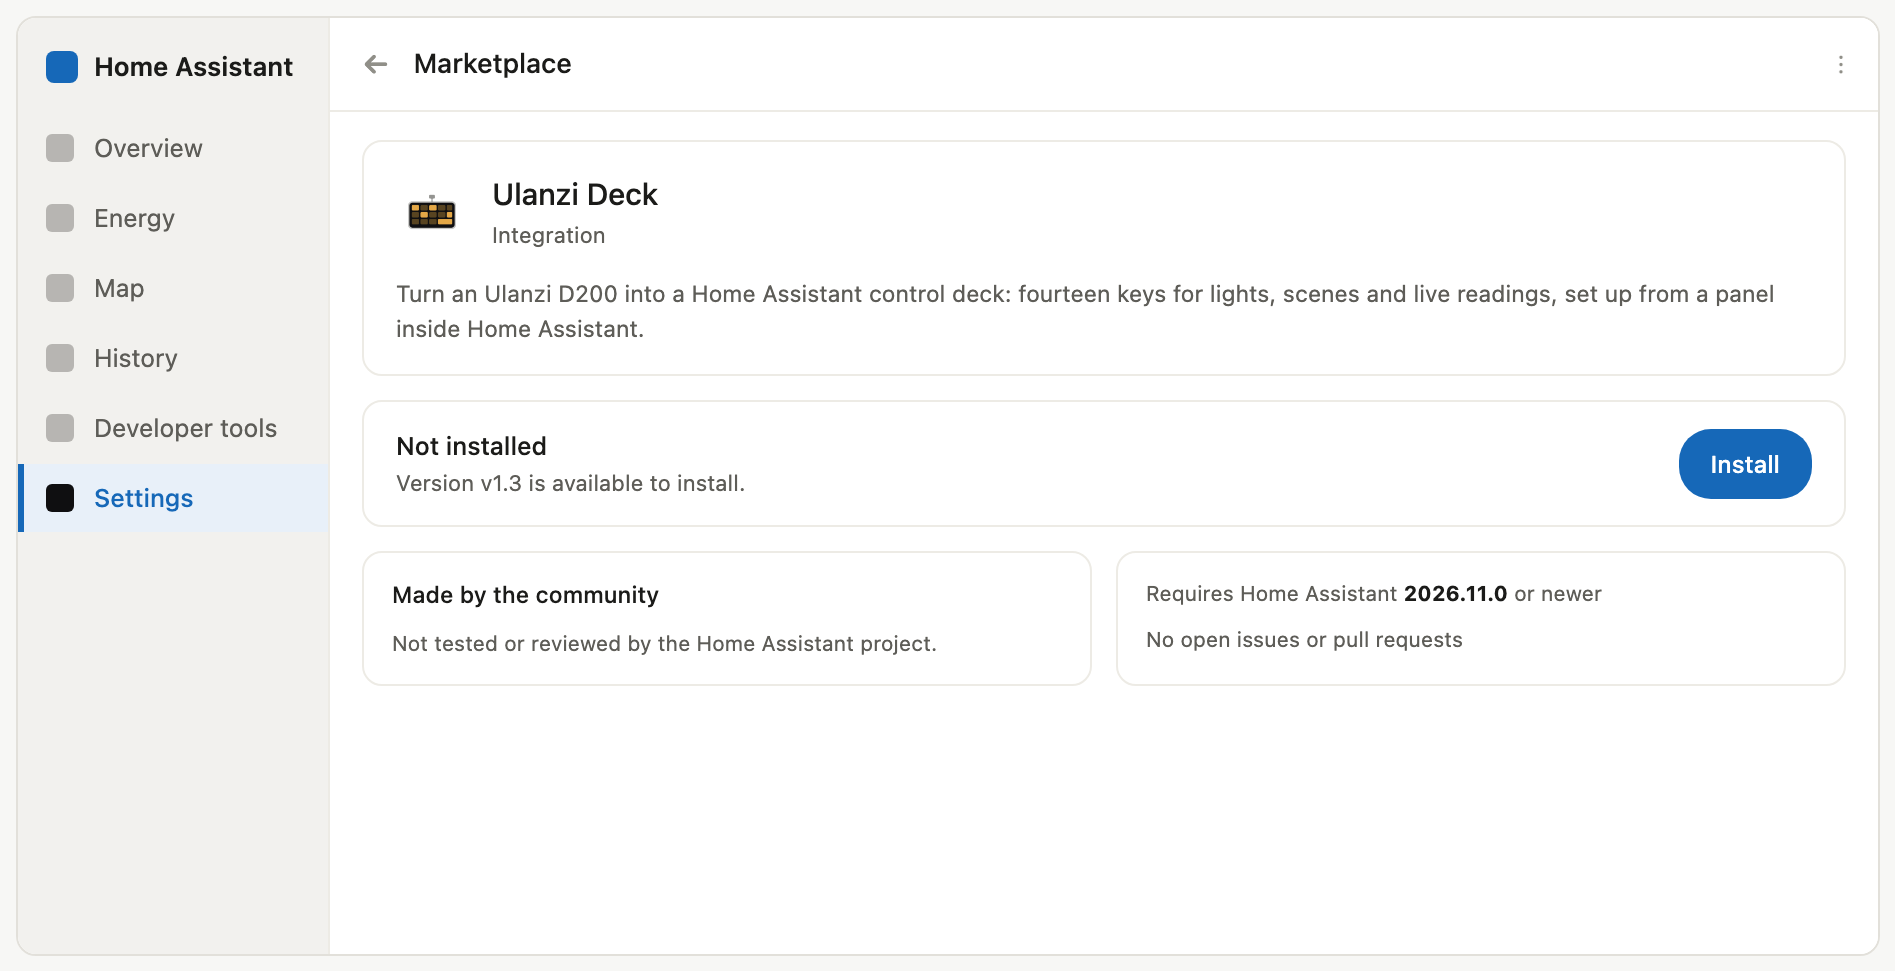
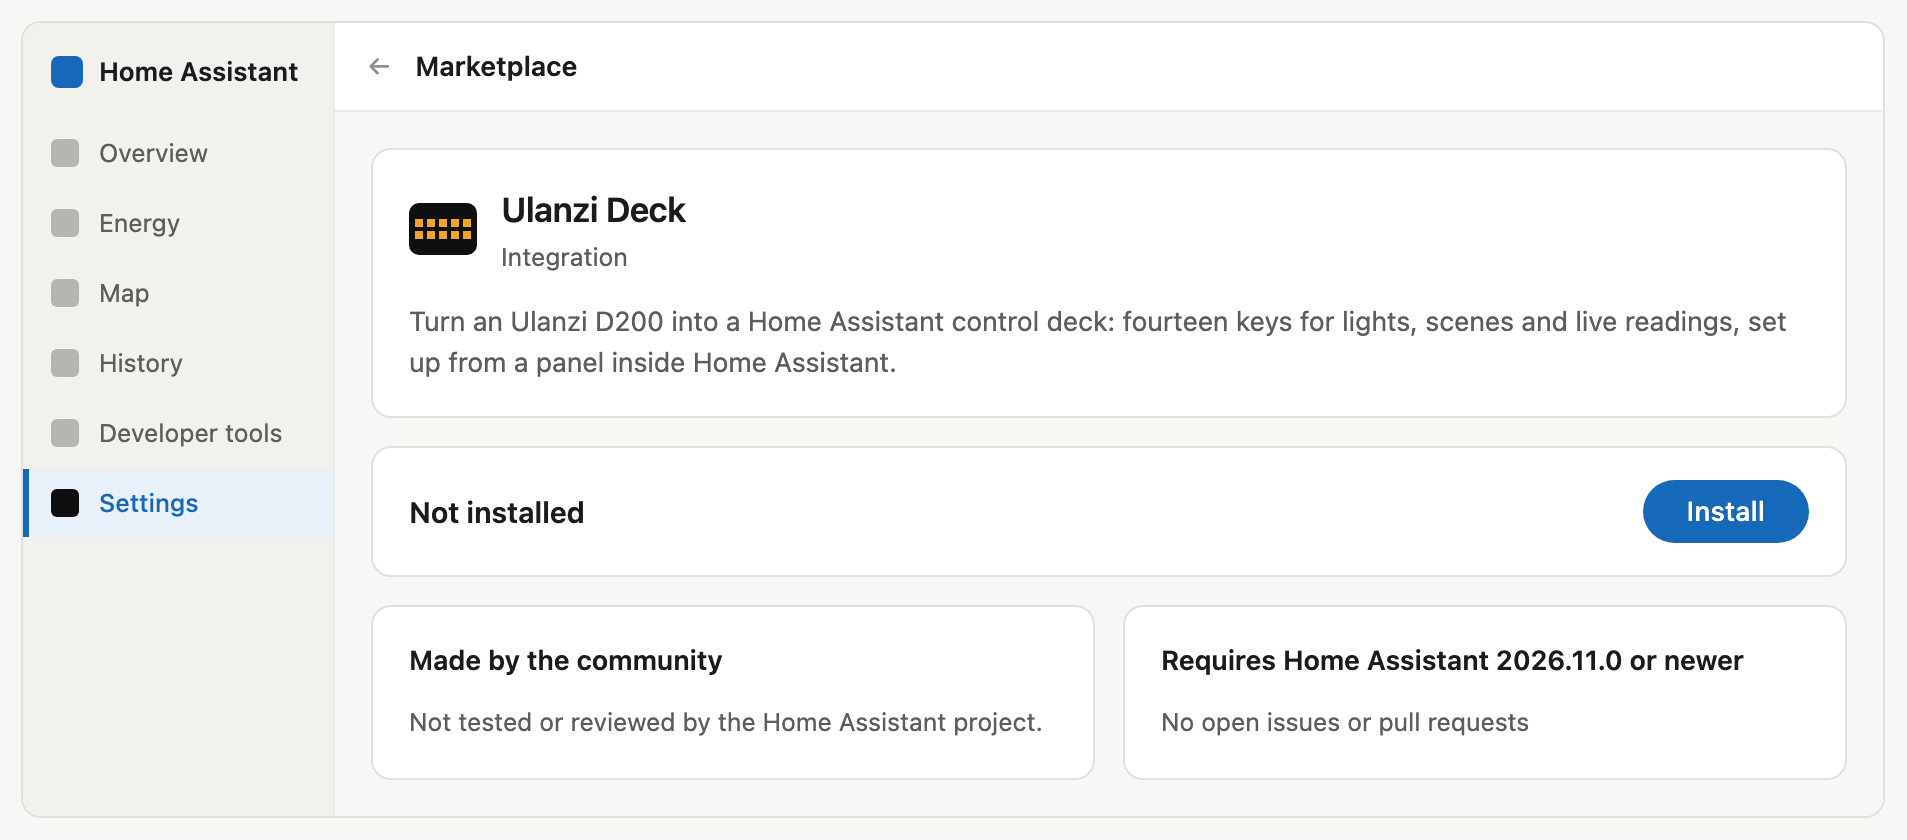
Clear the last audit findings, and bring the pictures and wording up to date
Ready for the repo to be read by people who have never seen it.

The five findings left from the earlier audit
- The connector app update had no check that anything changed. The deck
  software had one; an app that relaunched on the same version looked exactly
  like one that had never been asked. The hub now remembers what it asked a Mac
  to move off and says so if it comes back unchanged.
- The release zip was made by hand with a ditto command nobody had written
  down. build-app.sh makes it.
- A failed draft save said nothing at all, while the guide promises every change
  is kept as you make it. It now says so, where the update button is, and clears
  itself when saving works again.
- The deck installer threw away the result of copying the starter screen, and
  could report "running" after a failed move - which means the OLD app started.
  Both are now caught.
- install.sh preferred build/deckd whenever one existed. build/ is not tracked,
  so an old one beat the published binary. It now ignores a build older than
  deckd.c and says why.

Pictures
- The panel shots predated the version line and the amber bar. Re-rendered from
  the real panel: images/panel.jpg, docs/panel.jpg, images/guide/fig-step5.png.
- docs/connect.png still said "GET THE COMPANION APP". It is now the same file
  as the README's, and both show the new wording and "No Mac connected".
- The Marketplace figure said "Version v1.3 is available to install", which went
[…]

diff --git a/custom_components/ulanzi_deck/frontend/panel.js b/custom_components/ulanzi_deck/frontend/panel.js
@@ -1484,7 +1484,7 @@ function showVersions(){
        wait(2));
 
   $("#v-note").textContent = macOld
-    ? "This Mac is too old to be told from here: open Ulanzi Deck on it and press Update."
+    ? "This Mac is too old to be told from here: open the connector app on it and press Update."
     : "All three carry the same number, and they go in order: Home Assistant hands over the "
       + "connector app, and the connector app carries the deck software. Updating one out of "
       + "turn puts the old version back, so only the next one can be pressed.";
@@ -1547,6 +1547,11 @@ $("#set-save").addEventListener("click",()=>{
 /* ---------- draft, kept by itself ----------
    Every edit is written to Home Assistant's storage as you make it, so closing
    the page or restarting loses nothing. Only Send to device reaches the deck. */
+/* One line shown where the update button is, for anything that went wrong and
+   has nowhere else to appear: a refused update, a draft that will not save.
+   Declared up here because both of those are written long before the panel
+   is first painted. */
+let refusedNote=null;   // {title, line} when there is something to say
 const snap=()=>JSON.stringify([pages,settings]);
 /* What still needs sending. Brightness is not in it: it reaches the deck as the
    slider moves and the deck keeps it itself, so there is nothing left to send
@@ -1561,7 +1566,18 @@ function persist(){
   clearTimeout(saveTimer);
   saveTimer=setTimeout(()=>{
     const s=snap();
-    hass().callWS({type:"ulanzi_deck/save",pages,settings}).then(()=>{savedSnap=s}).catch(()=>{});
+    // The guide promises every change is kept as you make it. A save that
+    // failed used to say nothing at all, so the promise quietly stopped being
+    // true and you only found out by closing the page.
+    hass().callWS({type:"ulanzi_deck/save",pages,settings})
+      .then(()=>{savedSnap=s;
+        if(refusedNote&&refusedNote.what==="save"){refusedNote=null; if(lastStatus)paintVersions(lastStatus);}})
+      .catch(e=>{
+        refusedNote={what:"save", title:"Your changes are not being saved",
+          line:((e&&e.message)||"Home Assistant did not answer")
+            +". Keep this page open until it works again."};
+        if(lastStatus)paintVersions(lastStatus);
+      });
   },400);
 }
 function markDraft(){
@@ -1599,7 +1615,8 @@ function showStatus(st){
   dot.className="dot"+(st.deck?" ok":st.pending?" warn":"");
   text.textContent=st.deck?"Deck connected"
     :st.pending?"\u201c"+st.pending.name+"\u201d wants to connect"
-    :st.bridge==="connected"?"Bridge connected, no deck":"Bridge not connected";
+    // "Bridge" was this app's old name and appears nowhere else any more.
+    :st.bridge==="connected"?"Mac connected, no deck":"No Mac connected";
   allow.hidden=!st.pending;
   // Until a Mac is connected there is nothing worth configuring, so the setup
   // card is the whole page rather than one card beside the editor.
@@ -1653,9 +1670,9 @@ function paintVersions(st){
   const doing=st.job;
   const job =
     refusedNote
-      ? {icon:"alert-circle-outline", title:"That could not be done yet",
-         sub:refusedNote, label:"OK",
-         act:()=>{refusedNote=""; if(lastStatus) paintVersions(lastStatus);}}
+      ? {icon:"alert-circle-outline", title:refusedNote.title,
+         sub:refusedNote.line, label:"OK",
+         act:()=>{refusedNote=null; if(lastStatus) paintVersions(lastStatus);}}
     :
     doing && doing.state==="running"
       ? {icon:"progress-download", title:"Setting up the deck", sub:doing.line||"Working\u2026", act:null}
@@ -1679,7 +1696,7 @@ function paintVersions(st){
          sub:macCanBeTold
            ? "Running "+mac+" on "+(st.bridge_name||"your Mac")+"."
            : "Running "+mac+" on "+(st.bridge_name||"your Mac")+
-             ". Open Ulanzi Deck on that Mac and press Update: this button needs 3.5 or newer.",
+             ". Open the connector app on that Mac and press Update: this button needs 3.5 or newer.",
          label:"Update now", act:macCanBeTold?()=>ask("ulanzi_deck/update_app"):null}
     : ps[2].old
       ? {icon:"tray-arrow-down", title:"Deck software "+ps[2].want+" is ready to install",
@@ -1711,13 +1728,16 @@ function paintVersions(st){
 /* Asking for an update used to be fire-and-forget: a refusal, or no Mac at
    all, came back as {asked:false} and was thrown away, so the button simply
    went quiet. Now the reason is put where the button is. */
-let refusedNote="";
 function ask(type){
   return hass().callWS({type:type}).then(r=>{
-    refusedNote = (r && r.asked===false) ? (r.why || "Nothing answered the request.") : "";
+    refusedNote = (r && r.asked===false)
+      ? {what:"ask", title:"That could not be done yet",
+         line:(r.why || "Nothing answered the request.")}
+      : null;
     if(refusedNote && lastStatus) paintVersions(lastStatus);
   }).catch(e=>{
-    refusedNote = (e && e.message) || "The request could not be sent.";
+    refusedNote = {what:"ask", title:"That could not be done yet",
+      line:((e && e.message) || "The request could not be sent.")};
     if(lastStatus) paintVersions(lastStatus);
   });
 }

diff --git a/parts/03-mac-bridge/app/DeckInstaller.swift b/parts/03-mac-bridge/app/DeckInstaller.swift
@@ -67,7 +67,14 @@ enum DeckInstaller {
             let has = shell(adb, ["shell", "ls /userdata/deck/layout.bin 2>/dev/null"])
             if has.out.trimmingCharacters(in: .whitespacesAndNewlines).isEmpty {
                 say("Giving it something to show…")
-                _ = shell(adb, ["push", layout.path, "/userdata/deck/layout.bin"])
+                // Not fatal: the deck works, it just has nothing on screen until
+                // Home Assistant sends a layout. But it was being thrown away
+                // entirely, so a deck that came up blank looked like a success.
+                let pushed = shell(adb, ["push", layout.path, "/userdata/deck/layout.bin"])
+                if pushed.status != 0 {
+                    say("The starter screen did not copy across — the deck will be blank "
+                        + "until Home Assistant sends your keys.")
+                }
             }
         }
 
@@ -75,12 +82,18 @@ enum DeckInstaller {
         let start = shell(adb, ["shell", """
             killall UlanziDeckKey 2>/dev/null
             chmod 755 /userdata/UlanziDeckKey.new
-            mv /userdata/UlanziDeckKey.new /userdata/UlanziDeckKey
+            mv /userdata/UlanziDeckKey.new /userdata/UlanziDeckKey || echo MOVEFAILED
             sync
             (setsid /userdata/UlanziDeckKey -platform linuxfb >/dev/null 2>&1 &)
             sleep 1
             ps | grep "[U]lanziDeckKey" >/dev/null && echo running || echo stopped
             """])
+        // "running" on its own is not enough: if the move failed, the OLD app is
+        // what started, and it would report success while changing nothing.
+        if start.out.contains("MOVEFAILED") {
+            return .failure("The new deck software could not be put in place, so the deck is "
+                            + "still running the old one. Unplug it, plug it back in, and try again.")
+        }
         guard start.out.contains("running") else {
             return .failure("The deck took the app but would not start it. Unplug it, plug it back in, and try again.")
         }

diff --git a/docs/index.html b/docs/index.html
@@ -154,7 +154,7 @@ figcaption{font-family:var(--mono);font-size:11px;color:var(--ink-faint);padding
 
   <header style="display:flex;flex-direction:column;gap:11px">
     <h1>Setting up your Ulanzi deck</h1>
-    <p class="lede">Six steps, and four of them happen inside Home Assistant. Nothing is typed into a terminal and no files are copied by hand.</p>
+    <p class="lede">Six steps, and only one of them happens outside Home Assistant. Nothing is typed into a terminal and no files are copied by hand.</p>
   </header>
 
   <figure style="margin-top:4px">

diff --git a/custom_components/ulanzi_deck/hub.py b/custom_components/ulanzi_deck/hub.py
@@ -565,6 +565,11 @@ class DeckHub:
         bridge = self._bridge
         if not bridge:
             return False
+        # Remember what it was on, so that when it comes back we can tell an
+        # update that worked from one that reinstalled the same thing. The deck
+        # software already had this check; the app did not, and an app that
+        # relaunched unchanged looked exactly like one that had not been asked.
+        self._mac_was = bridge.version
         await bridge.ws.send_json({"type": "update_now"})
         return True
 
@@ -673,6 +678,18 @@ class DeckHub:
         if self._pending is bridge:
             self._pending = None
         await bridge.ws.send_json({"type": "ready", "app_version": self.app_version})
+        was = getattr(self, "_mac_was", "")
+        if was:
+            self._mac_was = ""
+            if bridge.version == was:
+                self.job = {
+                    "what": "update_app", "state": "failed",
+                    "line": ("The connector app restarted still running " + was
+                             + ". The download it was given was not "
+                             + self.app_version + ", so nothing changed."),
+                }
+            elif bridge.version:
+                self.job = None
         self._notify()
 
     async def async_allow(self, bridge_id: str) -> bool:

diff --git a/parts/02-deck-app/deckd.c b/parts/02-deck-app/deckd.c
@@ -29,7 +29,7 @@ typedef short i16;
 typedef int i32;
 
 #define FW_MAJOR 4
-#define FW_MINOR 7
+#define FW_MINOR 8
 /* The same two numbers as words, so --version and the log can never drift from
    what the status message reports. They used to be typed out by hand, and said
    1.2 for every release after it. */

diff --git a/parts/04-home-assistant/README.md b/parts/04-home-assistant/README.md
@@ -1,6 +1,6 @@
 [← Part 3](../03-mac-bridge/README.md) · [All parts](../../README.md) · [Part 5 →](../05-the-panel/README.md)
 
-# Part 4 · Home Assistant integration
+# Part 4 · The integration
 
 The part that does the thinking. It keeps your key settings, draws every key as a
 picture, sends the pictures to the deck, redraws a key when the thing it shows
@@ -12,15 +12,15 @@ changes, and carries out what a press asks for.
 |---|---|
 | **Built from** | A custom integration in Python. Pictures are drawn with Pillow, which Home Assistant already has |
 | **Files** | Not in this folder: in [`custom_components/ulanzi_deck/`](../../custom_components/ulanzi_deck) at the top of the repo, where Home Assistant and HACS look for it |
-| **Also needs** | The bridge ([Part 3](../03-mac-bridge/README.md)) to reach the deck |
+| **Also needs** | The connector app ([Part 3](../03-mac-bridge/README.md)) to reach the deck |
 | **Reads** | Whatever entities your keys point at; their history, for graph keys |
 | **Gives you** | A sidebar panel, two entities, and an event on every key press |
 
 It also hands out the connector app: the panel's **Get the connector app** button
 builds a zip holding the published app, a pairing file carrying this server's address
-and a key for that Mac, and a page explaining what macOS is about to do. When a newer
-app exists it says so in a banner under the panel, and **Update now** tells the Mac to
-fetch it from here. Home Assistant downloads it, pinned to the version this integration goes with, and passes it on; the Mac never talks to anywhere but your server.
+and a key for that Mac, and a page explaining what macOS is about to do. When a newer app exists it says so in an amber bar above the version line under the
+panel, and **Update now** tells the Mac to fetch it from here. Only one part can be
+updated at a time, in the order they depend on each other. Home Assistant downloads it, pinned to the version this integration goes with, and passes it on; the Mac never talks to anywhere but your server.
 
 ## How it works
 

diff --git a/parts/05-the-panel/README.md b/parts/05-the-panel/README.md
@@ -32,9 +32,9 @@ pickers and switches as the card editor.
 | Put it on the deck | **Send to device**, top right. It reads "Sent" when there is nothing waiting |
 | Set the brightness | The slider under the gear. The deck changes as you drag |
 | Get the connector app | **Get the connector app**, on the card shown until a Mac is connected |
-| Update the connector app | **Update now**, in the banner under the panel when a newer one exists |
-| See what is up to date | The gear, under **Versions**: the integration, the connector app and the deck software, each with what it is running and what is ready |
-| Update the deck software | **Update** beside **Deck software**, under the gear |
+| See what is up to date | The line under the panel, always on screen. Grey means nothing to do; amber means that part is behind |
+| Update any of the three | **Update now** in the amber bar above that line. It carries one job at a time, in the order the parts depend on each other |
+| See all three at once | The gear, under **Versions**. A part whose turn it is not has no button and says what it is waiting for |
 | Pair a Mac that has no key | **Allow**, which appears in the top bar. A Mac set up from the download
   arrives with a key and never asks |
 
@@ -64,7 +64,7 @@ back, and that first press does nothing else, so waking the deck cannot switch a
 on by accident.
 
 The deck does this itself rather than being told to by Home Assistant, so it still
-happens if the bridge or Home Assistant is down. The time travels in the layout
+happens if the connector app or Home Assistant is down. The time travels in the layout
 ([shared](../../shared/README.md#the-layout-file), byte 15), so the deck keeps it over
 a power cut.
 

diff --git a/parts/06-lining-up-the-keys/README.md b/parts/06-lining-up-the-keys/README.md
@@ -6,6 +6,11 @@
 > **Nobody setting a deck up does this.** The key positions are measured once and
 > shipped with the software; the connector app installs them. This page is how they
 > were measured, for anyone changing the hardware or curious about it.
+>
+> The commands below belong to `main.swift`, the older headless bridge kept beside the
+> app for exactly this kind of work ([Part 3](../03-mac-bridge/README.md)). They are not
+> in the connector app you downloaded, and you have to build that older program to use
+> them.
 
 ![The measured grid: where each key's window sits on the 1280 × 720 screen, with its size in pixels](grid.png)
 
@@ -24,9 +29,9 @@ vary from one to the next.
 
 | | |
 |---|---|
-| **Built from** | Two modes of the bridge program ([Part 3](../03-mac-bridge/README.md)), and one small Python script |
+| **Built from** | Two modes of the older headless bridge ([Part 3](../03-mac-bridge/README.md)), and one small Python script |
 | **Files in this folder** | `grid.json` (my deck's measurements) · `grid.png` (the same, as a picture) |
-| **Also needs** | The deck app ([Part 2](../02-deck-app/README.md)) and the bridge ([Part 3](../03-mac-bridge/README.md)) installed. Python 3 for the last step |
+| **Also needs** | The deck software ([Part 2](../02-deck-app/README.md)) installed, and the older headless bridge built ([Part 3](../03-mac-bridge/README.md)). Python 3 for the last step |
 | **Reads** | Your key presses |
 | **Shows** | Lines on the deck that you move onto the key edges |
 

diff --git a/parts/03-mac-bridge/README.md b/parts/03-mac-bridge/README.md
@@ -90,7 +90,10 @@ those only if that is what you want.*
    `waiting to be allowed`, and after you press Allow, `Home Assistant connected` and
    `deck online`.
 
-### Other things it can do
+### Other things the older headless bridge can do
+
+These are commands of `main.swift`, not of the app you downloaded. They exist for
+measuring and development work, and you have to build that older program to use them.
 
 Stop the login agent first for the ones marked *, so two programs aren't talking to
 the deck at once:

diff --git a/README.md b/README.md
@@ -1,6 +1,6 @@
 # Setting up your Ulanzi deck
 
-Six steps, and four of them happen inside Home Assistant. Nothing is typed into a
+Six steps, and only one of them happens outside Home Assistant. Nothing is typed into a
 terminal and no files are copied by hand.
 
 <br>

diff --git a/tools/README.md b/tools/README.md
@@ -1,4 +1,4 @@
-[All parts](../README.md#the-parts)
+[The guide](../README.md)
 
 # Tools
 
